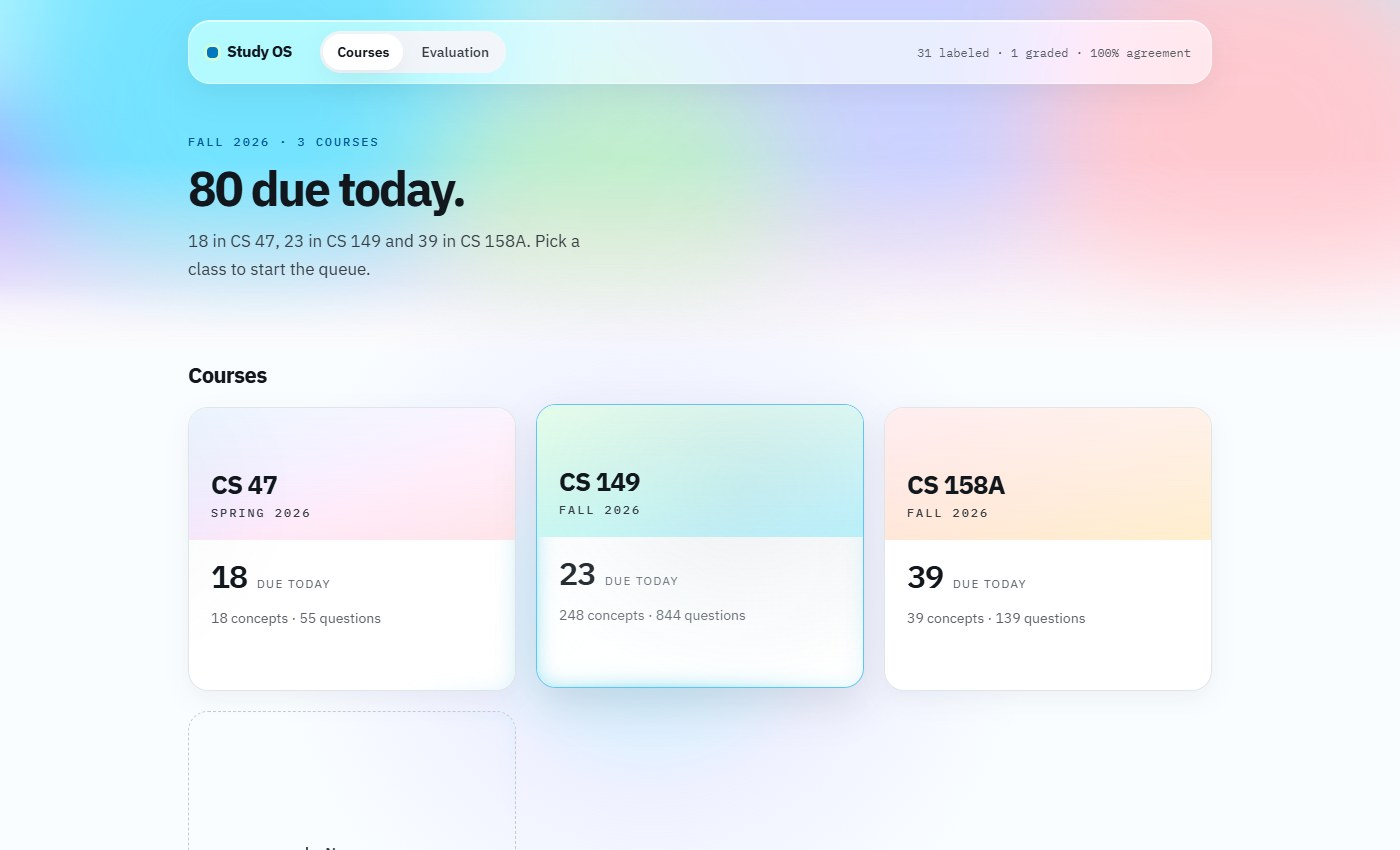
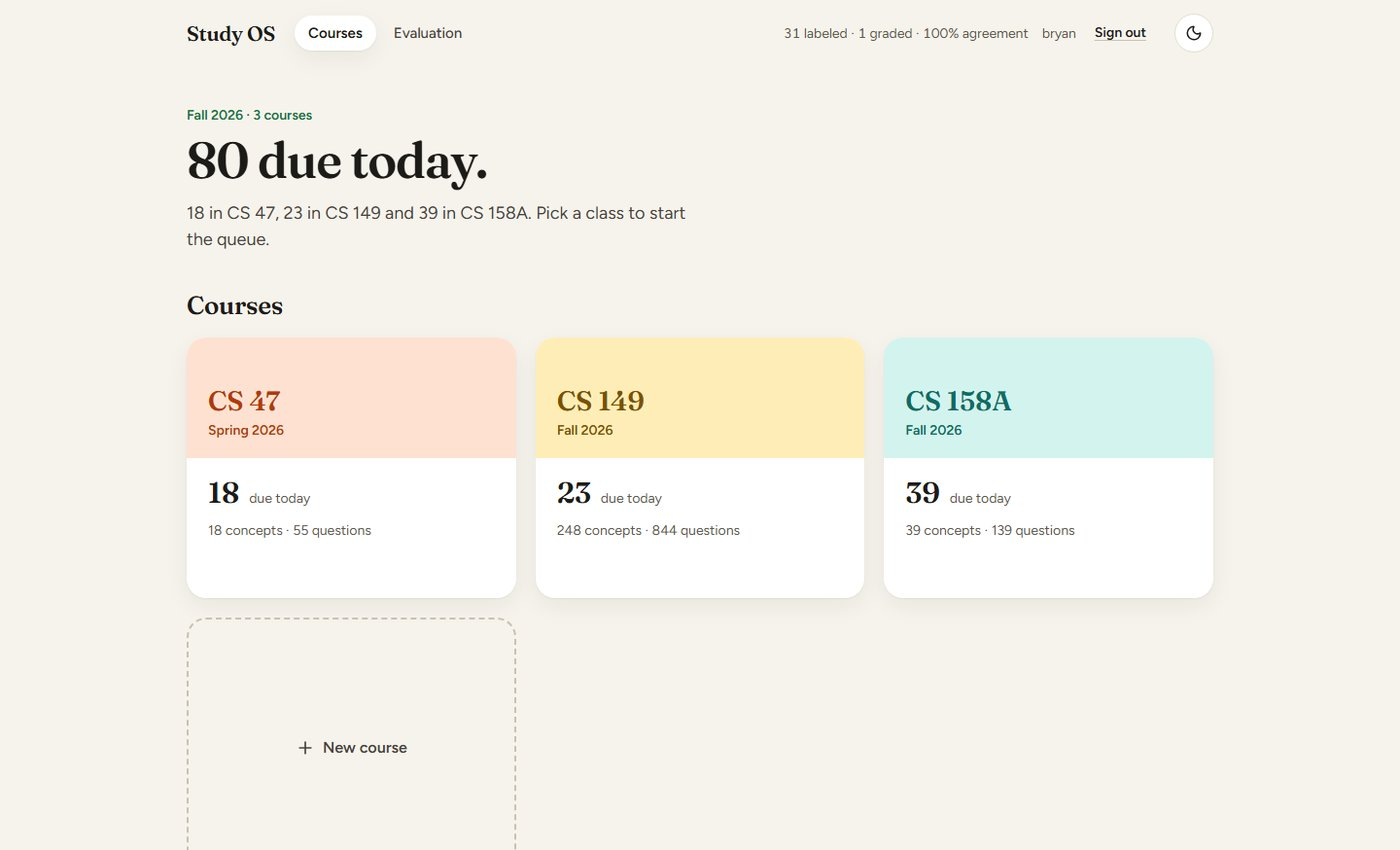
docs: DESIGN.md, new screenshots and README text for the redesign

diff --git a/README.md b/README.md
@@ -24,14 +24,16 @@ today, and the dashboard's weakest concepts and lecture bars](docs/walkthrough.g
 *The app end to end, recorded against a copy of my own data. The answers and the exam
 given on camera went into that copy, so the numbers move the way they would for real
 while my actual schedule stayed as it was. The preview is a compressed GIF; click it for
-the full-quality video.*
+the full-quality video. It was recorded before the October 2026 redesign, so the screens
+in it look older than the screenshots below.*
 
-![The Study OS home: one tile per course with its due-today count and the size of its
-bank, the middle tile lit where the pointer rests](docs/screenshots/courses.jpg)
+![The Study OS home: the total due today as a serif headline, then one tile per course,
+each with a tinted top, its due-today count and the size of its bank, and a dashed tile
+for a new course](docs/screenshots/courses.jpg)
 
 *Home. Each class is a tile; the number is what the schedule wants from me today, and
-the dashed tile after the courses makes a new one. Cards and buttons catch a light that
-follows the pointer, and the pill in the top bar slides to the page I am on.*
+the dashed tile after the courses makes a new one. The pill in the top bar slides to the
+page I am on, and the moon beside my name switches to the dark theme.*
 
 ![A quiz question on fork() after a wrong pick: four options, the picked one red and the
 right one green, each with a sentence from the slides on why, then the Incorrect verdict
@@ -46,8 +48,8 @@ schedule.*
 
 ![The question bank: the course's concept list on the left with the open concept filled
 dark, and on the right that concept's lecture file and slides above its question cards,
-each tagged with its type and the slides it came from, with three pill-toggle labels, a
-save button and a retire link](docs/screenshots/bank.jpg)
+each tagged with its type and the slides it came from, with three pill-toggle labels and
+a retire link](docs/screenshots/bank.jpg)
 
 *The bank. The list on the left is every concept the course's lectures produced. The open
 one names the lecture file and slides it came from, and every question card carries its
@@ -56,19 +58,23 @@ how I judge the generator. Retire is a quiet link that asks for a confirm, becau
 sat next to the label button I retired two questions by misclicking. A question I decided
 was bad is struck through rather than deleted, and I can put it back.*
 
-![The dashboard: an exams card with a midterm two weeks out, the new topics and reviews
-it puts on today, how many of its topics are started and the day new topics give way to
-review, then four figure tiles for due today, percent correct, concepts to work on and
-concepts not started, and the concepts whose last answer was wrong with their lecture
-and slides](docs/screenshots/dashboard.jpg)
+![The dashboard: a midterm two weeks out, then the headline "Today: 22 new topics and 1
+review." with the line that adds it up to 23 due today, a green Start studying button,
+four small figures for due today, percent correct with the answers behind it, concepts
+to work on and concepts not started, a peach card listing the concepts whose last answer
+was wrong with their lecture and slides, and the start of a dotted path of lectures, each
+with its own icon](docs/screenshots/dashboard.jpg)
 
-*The schedule for one course. The exam card says what today holds: the new topics its
-plan puts on today, the reviews due, how much of its material is started, and the day
-new topics stop so the days left are for review. The tiles say where I stand. Below them
-are the concepts I got wrong last time, weakest first, each with the slides to reread.
-Further down, every lecture is one row whose bar splits its concepts into right last
-time, to work on, and not started; opening the row lists them, and the lectures come
-eight to a page.*
+*The schedule for one course. The headline is what the nearest exam's plan puts on
+today, and the line under it says how that adds up against everything due, the day new
+topics stop so the days left are for review, and what the exam covers. Start studying
+opens the queue. The figures say where I stand, and the percent correct names the number
+of graded answers behind it. The card beside them lists the concepts I got wrong last
+time, weakest first, each with the slides to reread. Further down, every lecture sits on
+one path in the order I uploaded them, with a bar that splits its concepts into right last
+time, to work on, and not started, and a link that opens the concepts themselves. Each
+lecture's icon and tint are picked from its filename, and "Pick up here" marks the first
+lecture with something to work on.*
 
 ![The evaluation page: three question checks over 31 labeled questions, passing 31, 30
 and 29 of them, with the two questions that failed the clarity check listed under it,
@@ -139,13 +145,16 @@ right".*
   answered in this visit to override or self-grade them there), Quiz (above), Bank
   (upload a PDF, open a concept, label its questions, retire bad ones behind a confirm
   step and restore them when I misclick), and Dashboard (the course's exams, added,
-  edited and deleted there, each with what today holds for it and when new topics give
-  way to review, how many concepts are due, the share of graded answers I got right, the
-  five weakest concepts to work on next, and a row per lecture with a bar of how its
-  concepts stand that opens to the concepts themselves, eight lectures to a page).
+  edited and deleted there, the nearest one leading with what today holds for it and when
+  new topics give way to review, how many concepts are due, the share of graded answers I
+  got right, the five weakest concepts to work on next, and every lecture on one path with
+  a bar of how its concepts stand that opens to the concepts themselves).
   Every question names its concept, the lecture file and the slides it came from, so I
   can check it against the source. Eval (the report below) is global, and it grades the
   app rather than me.
+- Look: light by default with a matching dark theme. It follows the system setting until
+  the moon or sun button in the top bar picks one, and the browser remembers the pick.
+  The style rules (palette, type, components, motion) are in [DESIGN.md](DESIGN.md).
 
 ## Evaluation
 
@@ -194,7 +203,7 @@ Everything else is in `backend/src/main/resources/application.yml`: the two mode
     mvn -f backend/pom.xml test
     cd frontend && npm install && npm test
 
-175 backend tests and 211 frontend tests. Neither suite calls the Claude API or needs a
+175 backend tests and 219 frontend tests. Neither suite calls the Claude API or needs a
 database, so no key is needed to run them.
 
 One suite is deliberately not in that number. `PersistenceTest`, 12 tests, runs against

diff --git a/DESIGN.md b/DESIGN.md
@@ -1,0 +1,71 @@
+# DESIGN.md: Study OS
+
+## The look in one sentence
+Study path: warm off-white paper, a serif headline that answers "what do I do today", one green pill that starts the work, and the course's lectures as a dotted path with a bold icon on each, with one playful moment (the "Pick up here" bubble).
+
+## References
+- Brilliant, course list (`brilliant-courses`): every item gets its own bold icon chip and a one-line status, so lectures are easy to tell apart.
+- Brilliant, landing hero (`brilliant2-hero`): serif headline on warm off-white, a green pill button, real product UI beside it.
+- Brilliant, Koji task (`brilliant-koji`): the task in a friendly white card on a soft peach panel ("Work on these next").
+- Khan Academy classroom (`khan-classroom`): progress as a dotted path with nodes (the lecture path).
+- Duolingo: the one playful moment per screen, the green "Pick up here" bubble on the current node.
+
+The approved mockup is direction A of the 2026-10 makeover preview. The code lives in `frontend/src`; tokens are in `frontend/src/styles/tokens.css` and every other stylesheet uses them (`tokens.test.ts` fails on a raw colour anywhere else).
+
+## Colors
+| Token | Light | Dark | Used for |
+|---|---|---|---|
+| background (`--page`) | #F6F3EC | #171613 | page background |
+| surface (`--card`) | #FFFFFF | #22201C | cards, the top bar's current pill, inputs |
+| sunken (`--sunken`) | #EFEBE1 | #2A2823 | tab track, chips, skeletons |
+| panel (`--panel`) | #FBE6D8 | #3B2A20 | the peach panel behind "Work on these next" |
+| text (`--ink`) | #1C1B18 | #F3EFE6 | body text, headings |
+| text-muted (`--ink-soft` / `--ink-dim`) | #46423A / #5B574D | #D6D0C3 / #B5AE9F | secondary text, labels |
+| border (`--line`) | #E3DDD0 | #38342C | dividers |
+| primary (`--accent`) | #2DBE60, text on it #04260F | #3CCB6C, text on it #04260F | the main button, the current path node, the bubble |
+| primary text (`--accent-strong`) | #17703A | #74DB97 | green that carries text (eyebrows), checkbox accent |
+| link / focus ring (`--link`, `--focus`) | #1D4ED8 | #93B4FF | links, disclosure summaries, the focus outline |
+| success (`--ok`) | #17703A on #DDF5E3 | #74DB97 on #173D24 | right answers, "right last time" |
+| warning / danger (`--flag`) | #B23A0E on #FBE3D9 | #F7A27A on #3A2219 | wrong answers, "to work on", errors, delete |
+| info | uses `--link` | uses `--link` | neutral notices |
+| mastery fills | right #2A9E53, weak #DD6630, track #DDD6C7 | #3CCB6C, #F08A5D, #45403A | lecture bars (3:1 on the page and card) |
+| tints 1–6 | soft ground + ink pairs (blue, orange, yellow, teal, pink, green), each over 4.5:1 | the same hues at night | lecture icon chips and course tiles |
+
+White text on the green is under 3:1, so the green always carries the dark ink #04260F (6.7:1). Mermaid diagrams are drawn once in fixed colours, so a diagram keeps a white paper background in both themes.
+
+Dark mode: the page follows `prefers-color-scheme` until the toggle in the top bar (and on the sign-in card) picks a theme. The pick is stored in `localStorage` under `studyos.theme`, and `index.html` applies it before the first paint.
+
+## Type
+- Headings and big numbers: Fraunces (variable, optical size on), weight 600.
+- Body and UI: Figtree 400/500/600/700, 16px base, line height 1.5.
+- Both are self-hosted with Fontsource; nothing loads from a font CDN.
+- Scale: 12 / 13 / 14 / 16 / 18 / 22 / 28 / 40 / 52. Nothing under 12px (`typeFloor.test.ts`).
+- Numbers that line up (figures, tables, counts, slides): tabular figures.
+
+## Spacing and shape
+- Spacing steps: 4 / 8 / 12 / 16 / 24 / 32 / 48.
+- Radius: 12px for inputs, 20px for cards, 28px for the peach panel, pills fully round.
+- Shadows: one soft shadow (`--shadow-card`) for things that sit on the page: cards and the current pill. A hovered course tile lifts (`--shadow-lift`).
+
+## Components
+- Plain React components and one global stylesheet per area (`styles/*.css`), as the app already does. No component library.
+- Buttons: primary = green pill with dark ink (`.btn`, `.btn--go` for the big one); secondary = white pill with a border (`.btn--secondary`); quiet = underlined ink text (`.btn--ghost`); destructive = outlined in the flag colour, filled on hover (`.btn--danger`).
+- Tabs: a sunken track with the current tab lifted onto a white pill.
+- Icons: Lucide, pasted as inline SVG in `src/icons.tsx`. A lecture's icon comes from the first keyword in its cleaned title (`src/lectures.ts`, about 20 rules, an open book when nothing matches) and its tint from a hash of the filename, so the same file always looks the same.
+- Cards: no cards inside cards. The peach panel holding the white card is the one intentional layer.
+
+## Motion
+- CSS transitions only, 200–260 ms, ease-out.
+- At most two moving things per screen: the top bar's pill sliding to the current page, and the "Pick up here" bubble rising in once.
+- Everything is switched off under `prefers-reduced-motion`.
+
+## Icons and art
+- Small UI icons: Lucide only, as inline SVG.
+- No illustrations; the lecture icon chips are the art.
+- No emoji anywhere.
+
+## Rules (every screen, always)
+1. Skeleton loaders that match the final layout for anything that loads data (no layout shift). Skip them for near-instant loads.
+2. Semantic colors (success, warning, danger, info) from the table above. Never use color as the only signal; pair it with an icon or text.
+3. No clutter: no subtitle that restates a heading, no redundant helper text, no decorative dividers, no duplicate labels. If it isn't useful, remove it.
+4. Accessibility, WCAG 2.2 AA: 4.5:1 text contrast (3:1 for large text and controls), full keyboard navigation with visible focus, a label on every input, aria-labels on icon-only buttons, alt text on meaningful images, semantic HTML, targets at least 24×24px, prefers-reduced-motion respected.
